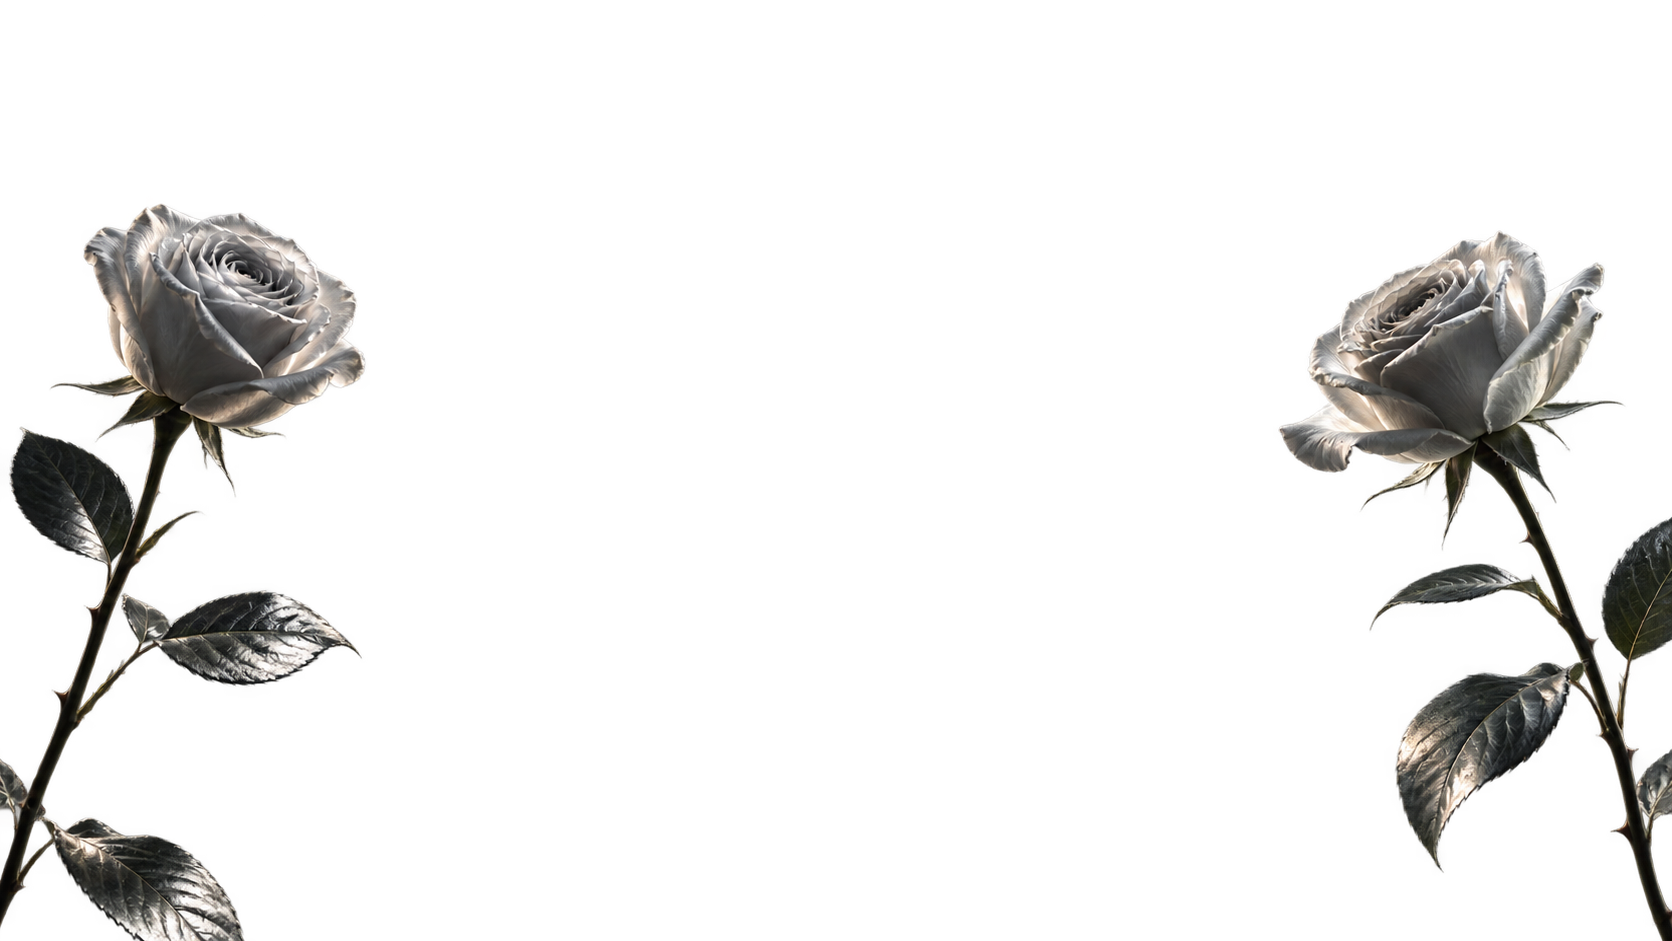
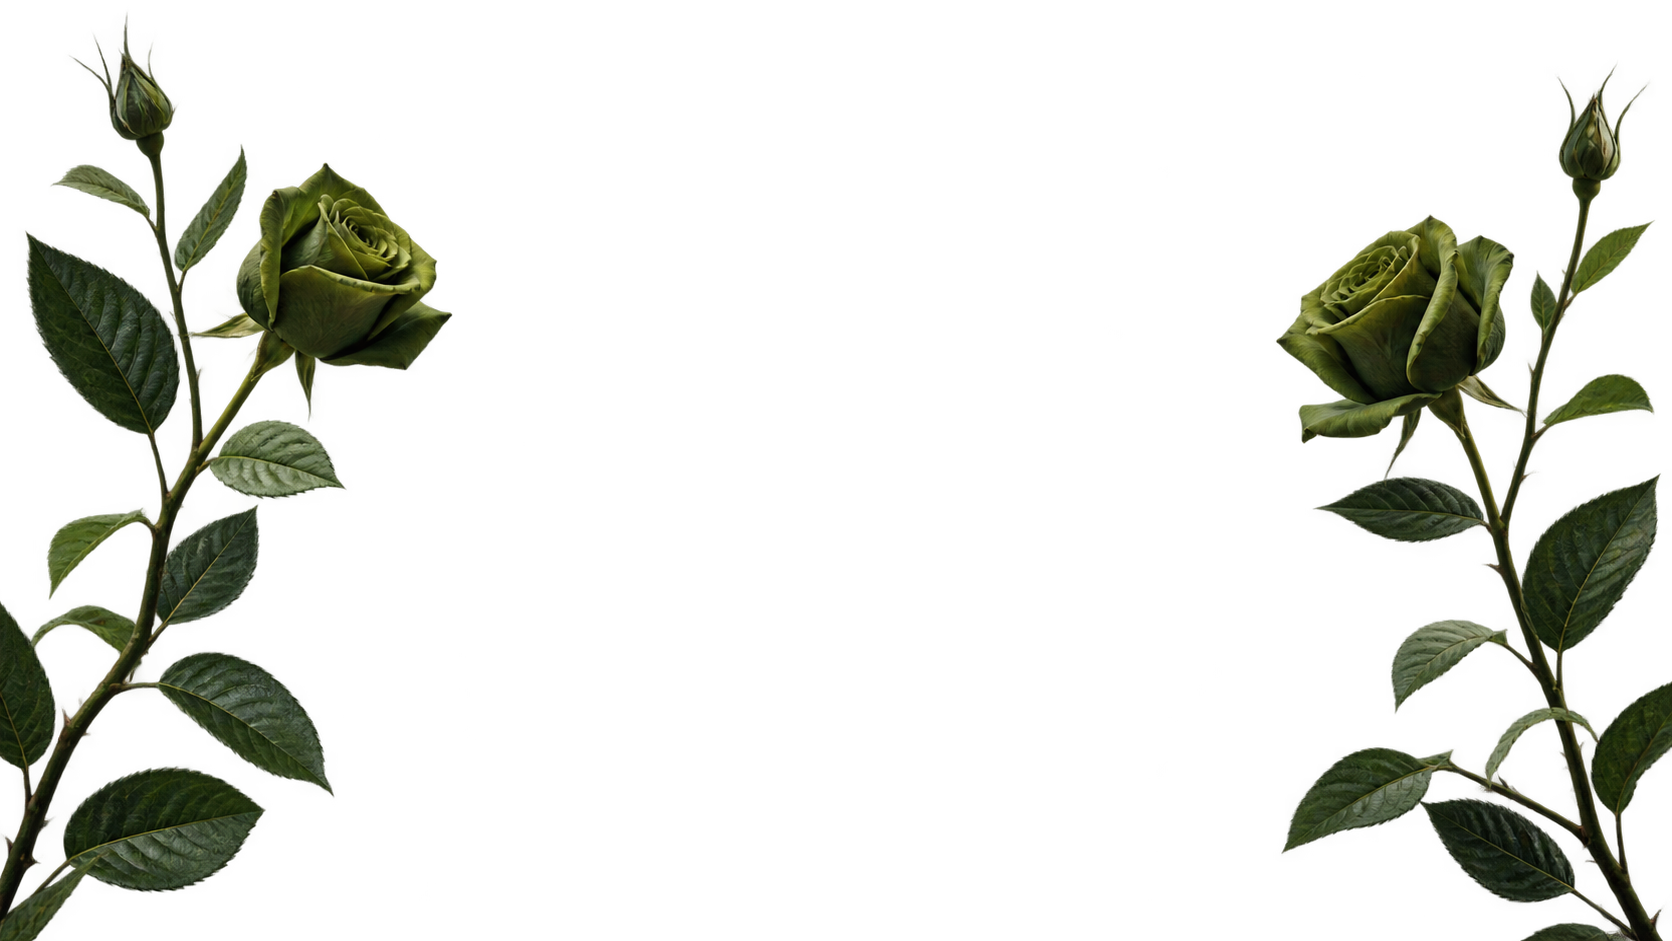
Make rose bloom the final CTA centerpiece

Changed region(s): [[0.0, 0.0308, 0.2799, 1.0], [0.7464, 0.0925, 1.0, 1.0]]

diff --git a/app/globals.css b/app/globals.css
@@ -2024,8 +2024,8 @@ a:focus-visible {
 .final-cta {
   min-height: 100svh;
   margin: 0 0 0 -50vw;
-  padding: clamp(4.5rem, 8vh, 7rem) var(--space-page) 0;
-  align-items: start;
+  padding: clamp(4rem, 7vh, 6rem) var(--space-page);
+  align-items: center;
   isolation: isolate;
   background: #0b0b0a;
 }
@@ -2039,7 +2039,7 @@ a:focus-visible {
 
 .final-cta__content {
   z-index: 8;
-  width: min(94vw, 76rem);
+  width: min(78vw, 76rem);
   margin-inline: auto;
 }
 
@@ -2052,7 +2052,7 @@ a:focus-visible {
 }
 
 .final-cta h2 {
-  max-width: 13ch;
+  max-width: 12.5ch;
   font-size: clamp(3.3rem, 6.7vw, 7.35rem);
   font-weight: 400;
   letter-spacing: -0.068em;
@@ -2078,19 +2078,35 @@ a:focus-visible {
 
 .final-cta__roses {
   position: absolute;
-  z-index: 3;
-  right: -2%;
-  bottom: -2%;
-  left: -2%;
-  width: 104%;
-  height: 84%;
-  object-fit: cover;
+  inset: 0;
+  width: 100%;
+  height: 100%;
+  object-fit: fill;
   object-position: center bottom;
-  opacity: 0.82;
-  filter: brightness(1.45) contrast(1.08) saturate(0.2);
   transform-origin: center bottom;
   pointer-events: none;
-  will-change: transform, opacity;
+  will-change: transform, opacity, clip-path;
+}
+
+.final-cta__botanicals {
+  position: absolute;
+  z-index: 3;
+  inset: 0;
+  overflow: hidden;
+  pointer-events: none;
+}
+
+.final-cta__rose-growth {
+  opacity: 0;
+  filter: brightness(0.82) contrast(1.12) saturate(0.9);
+  clip-path: inset(100% 0 0);
+}
+
+.final-cta__rose-bloom {
+  opacity: 0;
+  filter: brightness(1.03) contrast(1.08) saturate(1.03);
+  clip-path: inset(0 0 49%);
+  transform: scale(0.74);
 }
 
 .final-cta__object {
@@ -2992,8 +3008,10 @@ a:focus-visible {
 
   .final-cta {
     min-height: 100svh;
-    padding: 5.5rem 1.1rem 0;
+    padding: 4rem 1.1rem;
   }
+
+  .final-cta__content { width: 92vw; }
 
   .final-cta h2 {
     max-width: 14ch;
@@ -3012,19 +3030,9 @@ a:focus-visible {
   }
 
   .final-cta__roses {
-    right: 0;
-    left: 0;
     width: 100%;
-    height: 62%;
-    opacity: 0.88;
+    height: 100%;
     object-fit: fill;
-    filter: brightness(1.35) contrast(1.08) saturate(0);
-  }
-
-  .final-cta__object {
-    bottom: -2.5rem;
-    width: min(88vw, 34rem);
-    height: min(30vh, 17rem);
   }
 
   .final-cta__screen {
@@ -3090,15 +3098,12 @@ a:focus-visible {
     padding-bottom: 5rem;
   }
 
-  .final-cta__roses,
-  .final-cta__object {
+  .final-cta__rose-growth {
     opacity: 1 !important;
-    transform: none !important;
+    clip-path: inset(0) !important;
   }
 
-  .final-cta__object {
-    transform: translateX(-50%) !important;
-  }
+  .final-cta__rose-bloom { display: none; }
 
   .services__stage {
     position: relative;

diff --git a/components/foundation-reveal.tsx b/components/foundation-reveal.tsx
@@ -264,33 +264,46 @@ export function FoundationReveal() {
         },
       );
 
-      gsap.fromTo(
-        ".final-cta__roses",
-        { yPercent: 14, scale: 0.94, opacity: 0 },
-        {
-          yPercent: 0,
-          scale: 1,
-          opacity: 0.82,
-          ease: "power2.out",
-          scrollTrigger: { trigger: ".final-cta", start: "top 86%", end: "top 24%", scrub: 0.9 },
-        },
-      );
+      gsap.set(".final-cta__rose-growth", {
+        clipPath: "inset(100% 0 0)",
+        scaleX: 0.9,
+        opacity: 0,
+        transformOrigin: "center bottom",
+      });
+      gsap.set(".final-cta__rose-bloom", { scale: 0.72, opacity: 0, transformOrigin: "center 58%" });
 
-      gsap.fromTo(
-        ".final-cta__object",
-        { y: 58, rotateX: 7, opacity: 0 },
-        {
-          y: 0,
-          rotateX: 0,
-          opacity: 1,
-          ease: "power2.out",
-          scrollTrigger: { trigger: ".final-cta", start: "top 78%", end: "top 18%", scrub: 0.85 },
+      const finalCtaTimeline = gsap.timeline({
+        defaults: { ease: "power2.inOut" },
+        scrollTrigger: {
+          trigger: ".final-cta",
+          start: "top top",
+          end: () => `+=${window.innerHeight * 1.05}`,
+          pin: true,
+          scrub: 0.85,
+          anticipatePin: 1,
+          invalidateOnRefresh: true,
         },
-      );
+      });
 
-      gsap.to(".final-cta__screen", {
-        y: -7,
-        duration: 3.6,
+      finalCtaTimeline
+        .to(
+          ".final-cta__rose-growth",
+          { clipPath: "inset(0% 0 0)", scaleX: 1, opacity: 0.9, duration: 0.68 },
+          0,
+        )
+        .fromTo(
+          ".final-cta__content",
+          { y: 18, opacity: 0.62 },
+          { y: 0, opacity: 1, duration: 0.42 },
+          0.12,
+        )
+        .to(".final-cta__rose-bloom", { scale: 1, opacity: 0.82, duration: 0.44, ease: "power3.out" }, 0.52)
+        .to(".final-cta__light", { scale: 1.06, opacity: 0.92, duration: 0.36 }, 0.62);
+
+      gsap.to(".final-cta__botanicals", {
+        xPercent: 0.28,
+        rotate: 0.12,
+        duration: 4.8,
         repeat: -1,
         yoyo: true,
         ease: "sine.inOut",

diff --git a/app/page.tsx b/app/page.tsx
@@ -51,15 +51,12 @@ export default function Home() {
             <div className="final-cta__vignette" />
           </div>
 
-          <img
-            className="final-cta__roses"
-            src="/images/cta-roses.png"
-            alt=""
-            aria-hidden="true"
-          />
+          <div className="final-cta__botanicals" aria-hidden="true">
+            <img className="final-cta__roses final-cta__rose-growth" src="/images/cta-roses.png" alt="" />
+            <img className="final-cta__roses final-cta__rose-bloom" src="/images/cta-roses.png" alt="" />
+          </div>
 
-          <div className="final-cta__content" data-final-reveal>
-            <p className="final-cta__eyebrow">Ready to elevate your business?</p>
+          <div className="final-cta__content">
             <h2 id="contact-title">
               Premium websites that move businesses forward.
             </h2>
@@ -71,22 +68,6 @@ export default function Home() {
               <span>Book a call</span>
               <span aria-hidden="true">↗</span>
             </a>
-          </div>
-
-          <div className="final-cta__object" aria-hidden="true">
-            <div className="final-cta__screen">
-              <div className="mock-site__nav">
-                <span>KREU</span>
-                <i />
-                <i />
-              </div>
-              <div className="mock-site__hero">
-                <small>Digital direction / 2026</small>
-                <strong>Presence<br />with purpose.</strong>
-                <div className="mock-site__image" />
-              </div>
-            </div>
-            <div className="final-cta__plinth" />
           </div>
         </section>
 
